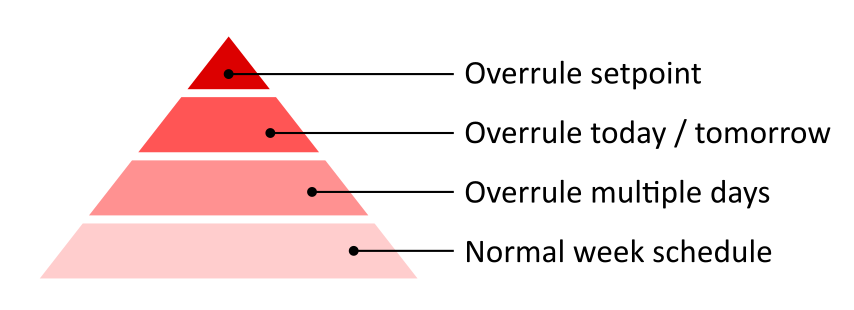
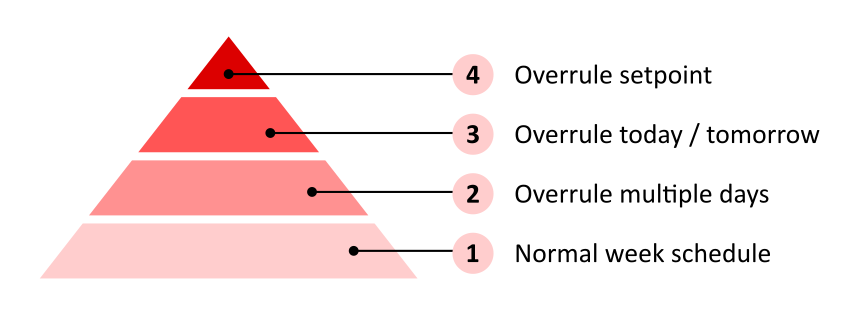
Update Readme

diff --git a/README.md b/README.md
@@ -12,32 +12,26 @@ This fully (software & mechanics & electronics) open source project is based on 
     <img src="02 User interface/User manual/Onepager.png" alt="drawing" width="800"/> 
 </p>
 
-## Features
-
-Every weekday can be programmed to be one of four kinds:
-* **Work from home**: switch from low to high temperature at wake time, and back to low at sleep time
-* **Work from office**: same, but also switch to low temperature when at the office
-* **Weekend day**: same as home, but wake up and go to sleep at a different times
-* **All day away**: low temperature throughout the day (e.g. when on holiday)
-
-The temperature can be manually overruled to any temperature. The thermostat will automatically switch back to the programmed temperature as the next switch moment occurs.
-
-Only two temperatures are defined common to all day kinds:
-* a high temperature for when awake and present
-* a low temperature for when away or asleep
-
-All times for each day type (8 times in total) can be modified.
-
-### Priorities for the setpoint
-There is flexibility on top of that, with increasing priority over the normal week schedule:
+### Priorities for the temperature setpoint
 
 <p align="center">
   <img src="02 User interface\SetpointPriorities.png" alt="setpoint priorities" width="500"/> 
 </p>
 
-* It is possible to **overrule multiple days**, for instance to program multiple days as weekend day (e.g. holiday at home) or as days away (e.g. holiday away). The thermostat will be overruled until the number of days expires, or if the **overrule multiple days** function is reset to **automatic**. It is also possible to set the number of days to **forever**, for instance if heating is not required during the summer, and reset it back to **automatic** in autumn.
-* **Today** and **tomorrow** can be overruled by a schedule that is different from the normal schedule. Each can be set back to **automatic** by the user, or the setting of **today** will be replaced by the setting of **tomorrow** at midnight. For instance: if the holiday starts tomorrow, **multiple days** can be overruled to be **away**, after which **today** can be overruled as **weekend day**
-* At all times, a **higher or lower temperature** can be manually selected. When the next programmed timeslot of the lower priority arrives, the temperature switches back to the program.
+The temperature setpoint can be chosen in four different ways, with increasing priority:
+1. The lowest priority is the **normal week schedule**, which says which day type it is depending on the day of the week. 
+    * The days of the week can be programmed in **settings**. 
+    * All times for each type of day type can be modified
+    * The low temperature and high temperature can be modified. These are the same temperatures for all day types
+2. It is possible to **overrule multiple days** with a different day type, for instance to program multiple days as weekend day (e.g. holiday at home) or as days away (e.g. holiday away). 
+    * The thermostat will be overruled until the number of days expires, or if the **overrule multiple days** function is reset to **automatic** by the user
+    * It is also possible to set the number of days to **forever**, for instance if heating is not required during the summer, and reset it back to **automatic** in autumn.
+3. **Today** and **tomorrow** can be overruled by a schedule that is different from the normal schedule.
+    * Each can be set back to **automatic** by the user, or the setting of **today** will be replaced by the setting of **tomorrow** at midnight. 
+    * At midnight, **tomorrow** will be set back to **automatic**
+    * For instance: if the holiday starts tomorrow, **multiple days** can be overruled to be **away**, after which **today** can be overruled as **weekend day**
+4. At all times, a **higher or lower temperature** can be manually selected. 
+    * When the next programmed timeslot of the lower priority day type dawns, the temperature setting switches back to that program.
 
 Icons of days according to the normal week schedule are displayed on the unit with a black icon. Overruled days are displayed in blue. If the setpoint is manually overruled, the setpoint temperature is displayed in red font.
 
